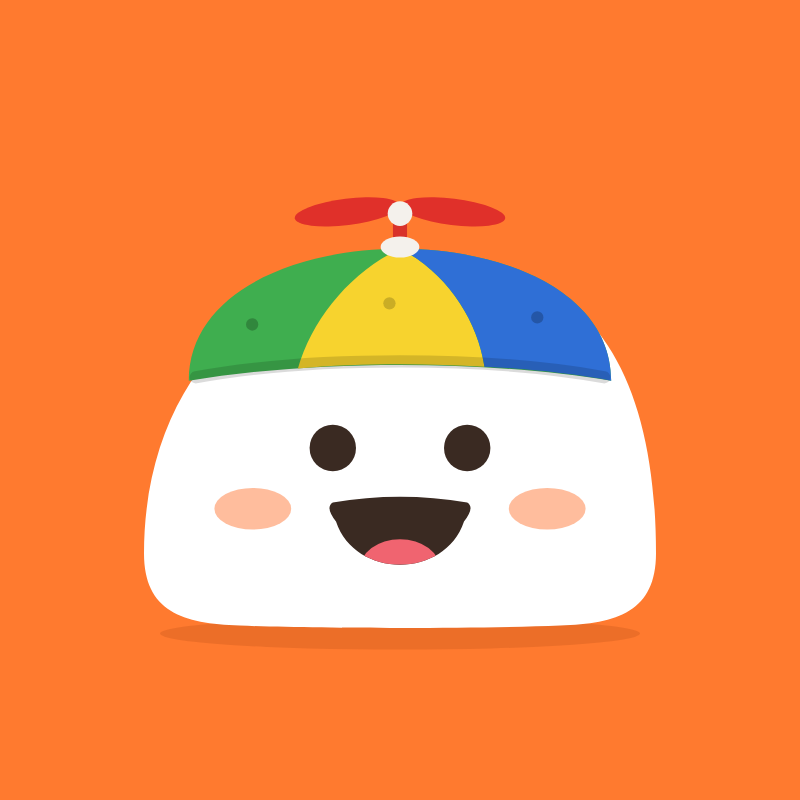
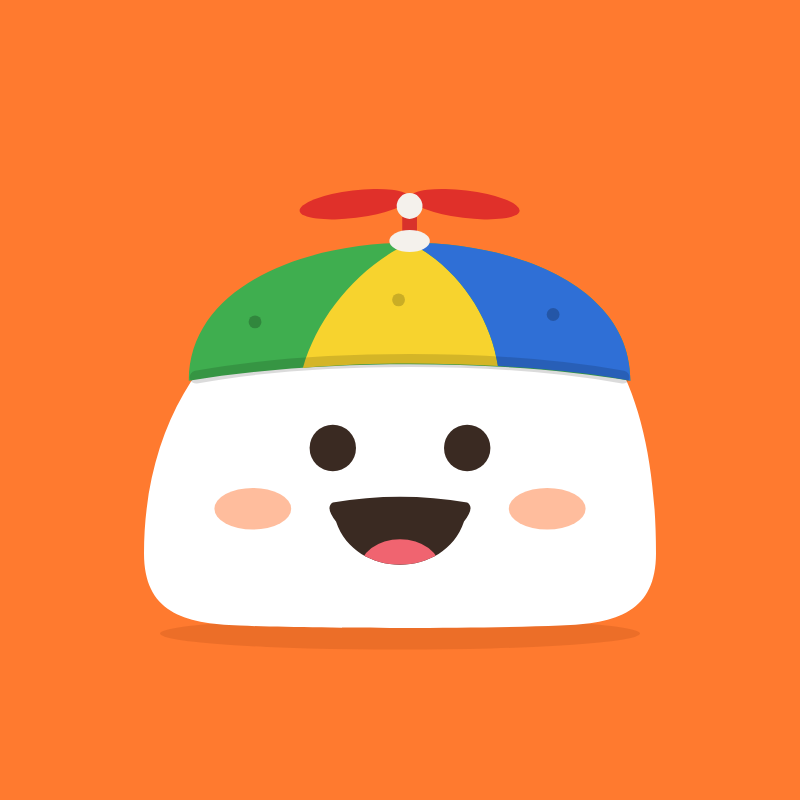
장난꾸러기 모자를 키워 머리 오른쪽까지 덮게

diff --git a/app/src/components/Outfits.tsx b/app/src/components/Outfits.tsx
@@ -10,7 +10,7 @@ const FIT: Record<OutfitId, { from: [number, number]; to: [number, number]; k: n
   cat: { from: [0, 0], to: [0, 0], k: 1, top: 50 },
   dog: { from: [0, 0], to: [0, 0], k: 1, top: 86 },
   straw: { from: [225, 114], to: [203, 104], k: 1.25, top: 9 },
-  beret: { from: [200, 140], to: [200, 148], k: 1.1, top: 31 },
+  beret: { from: [200, 140], to: [206, 148], k: 1.15, top: 28 },
   crown: { from: [225, 104], to: [203, 146], k: 1.35, top: 16 },
   party: { from: [0, 0], to: [234, 87], k: 1, r: 9, top: -35 },
   headphones: { from: [0, 0], to: [0, 0], k: 1, top: 40 },
